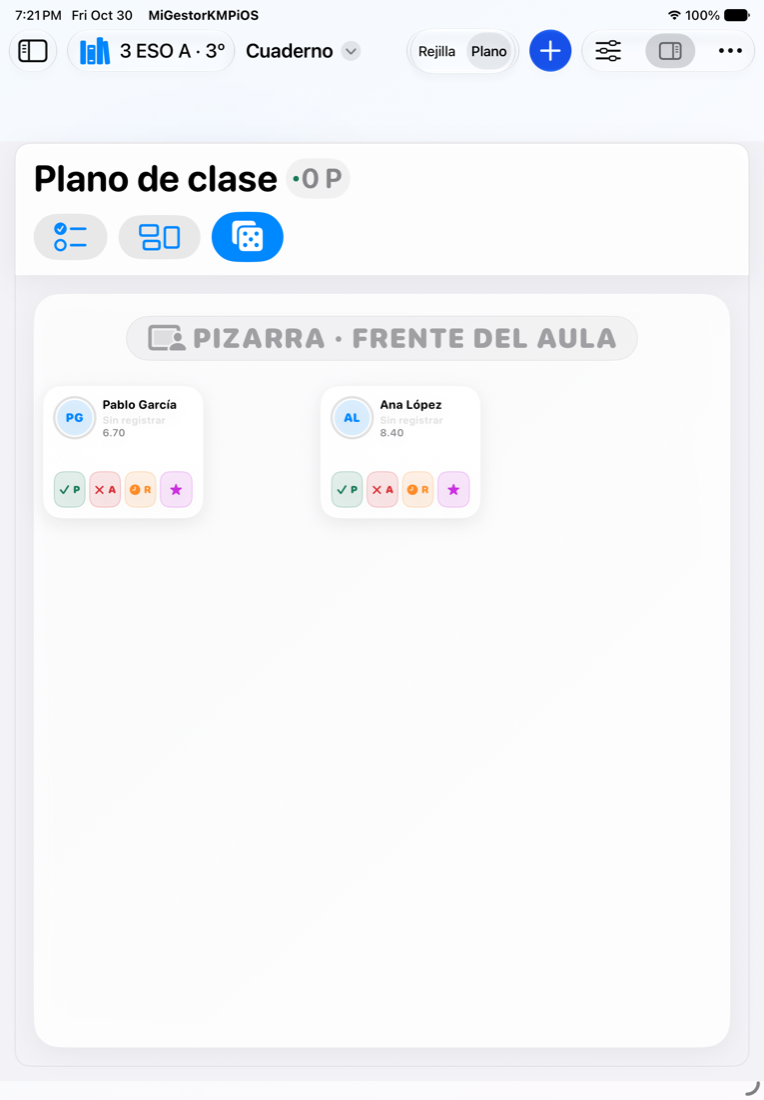
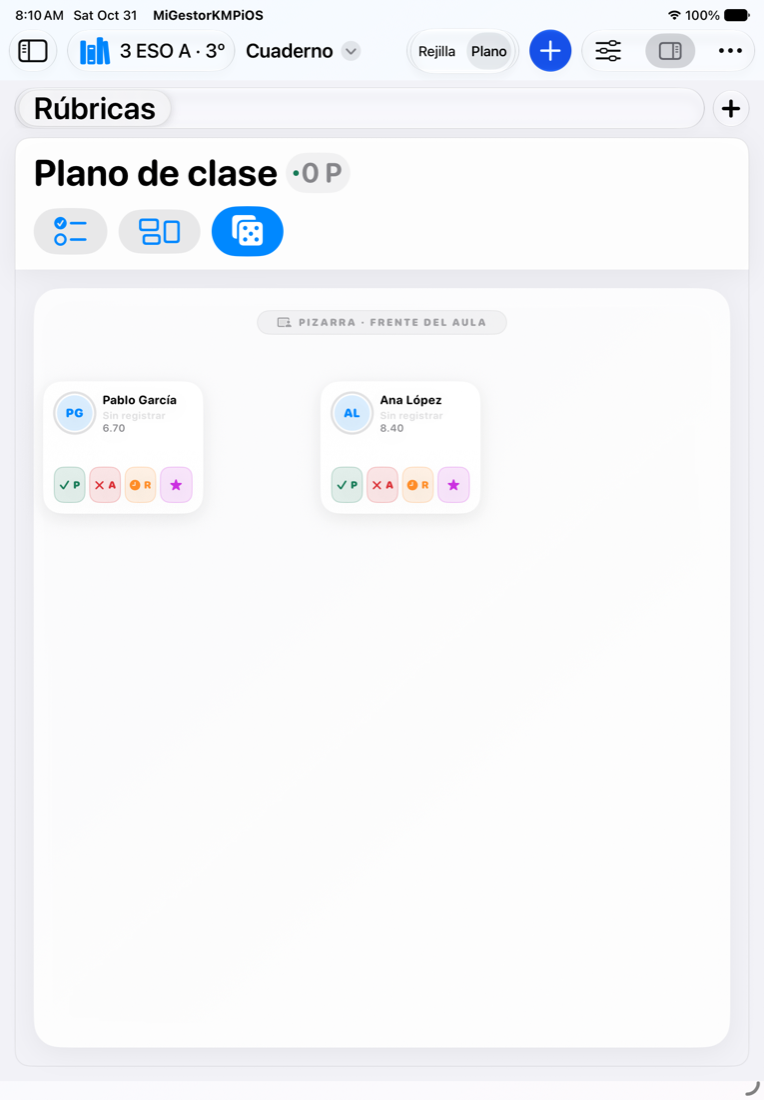
ui(cuaderno): plano y Ficha 360 sin solapes ni palabras partidas en pantallas estrechas
- Plano: la barra pasa a dos filas si no cabe; el lienzo tiene ancho
  mínimo y se desplaza en horizontal; la primera fila de pupitres queda
  bajo la pizarra, que no crece con la letra.
- Ficha 360: cabecera apilada en tamaños de accesibilidad y tarjeta de
  nota que baja la etiqueta antes de partir «/ 10».
- Capturas nuevas del plano en iPad y de plano y Ficha 360 en iPhone.

diff --git a/kmp/iosApp/App/StudentProfile360Sheet.swift b/kmp/iosApp/App/StudentProfile360Sheet.swift
@@ -180,7 +180,12 @@ struct StudentProfile360Sheet: View {
     // MARK: - Header Identity Bar
 
     private var headerIdentityBar: some View {
-        HStack(spacing: 14) {
+        // Con letra de accesibilidad avatar, datos y flechas no caben en una
+        // fila de iPhone ("3 ES O A"): se apilan.
+        let layout = dynamicTypeSize.isAccessibilitySize
+            ? AnyLayout(VStackLayout(alignment: .leading, spacing: 12))
+            : AnyLayout(HStackLayout(spacing: 14))
+        return layout {
             // Avatar con iniciales y anillo de estado
             ZStack {
                 let isInjured = currentStudent?.isInjured ?? false
@@ -205,7 +210,7 @@ struct StudentProfile360Sheet: View {
                     Text(currentStudent?.fullName ?? "Alumno")
                         .font(.title3.weight(.bold))
                         .foregroundStyle(.primary)
-                        .lineLimit(1)
+                        .lineLimit(dynamicTypeSize.isAccessibilitySize ? 2 : 1)
 
                     if currentStudent?.isInjured == true {
                         HStack(spacing: 3) {
@@ -220,14 +225,19 @@ struct StudentProfile360Sheet: View {
                     }
                 }
 
-                HStack(spacing: 8) {
+                let detailLayout = dynamicTypeSize.isAccessibilitySize
+                    ? AnyLayout(VStackLayout(alignment: .leading, spacing: 2))
+                    : AnyLayout(HStackLayout(spacing: 8))
+                detailLayout {
                     Text(profile?.schoolClass?.name ?? "Grupo activo")
                         .font(.subheadline.weight(.medium))
                         .foregroundStyle(.secondary)
 
                     if let index = currentStudentIndex {
-                        Text("•")
-                            .foregroundStyle(.tertiary)
+                        if !dynamicTypeSize.isAccessibilitySize {
+                            Text("•")
+                                .foregroundStyle(.tertiary)
+                        }
                         Text("Alumno \(index + 1) de \(allStudents.count)")
                             .font(.caption.weight(.semibold))
                             .foregroundStyle(.secondary)
@@ -236,8 +246,10 @@ struct StudentProfile360Sheet: View {
                     if let cleanEmail = currentStudent?.email?.trimmingCharacters(in: .whitespacesAndNewlines),
                        !cleanEmail.isEmpty,
                        let emailUrl = URL(string: "mailto:\(cleanEmail)") ?? URL(string: "mailto:\(cleanEmail.addingPercentEncoding(withAllowedCharacters: .urlQueryAllowed) ?? "")") {
-                        Text("•")
-                            .foregroundStyle(.tertiary)
+                        if !dynamicTypeSize.isAccessibilitySize {
+                            Text("•")
+                                .foregroundStyle(.tertiary)
+                        }
                         Link(destination: emailUrl) {
                             HStack(spacing: 3) {
                                 Image(systemName: "envelope.fill")
@@ -249,7 +261,9 @@ struct StudentProfile360Sheet: View {
                 }
             }
 
-            Spacer(minLength: 8)
+            if !dynamicTypeSize.isAccessibilitySize {
+                Spacer(minLength: 8)
+            }
 
             // Controles de Carrusel (‹ Alumno anterior | Alumno siguiente ›)
             HStack(spacing: 8) {
@@ -290,6 +304,7 @@ struct StudentProfile360Sheet: View {
                 .help("Alumno siguiente (⌘→)")
             }
         }
+        .frame(maxWidth: .infinity, alignment: .leading)
     }
 
     private var tabPickerBar: some View {
@@ -343,32 +358,22 @@ struct StudentProfile360Sheet: View {
                         .foregroundStyle(.secondary)
 
                     let score = resolvedAverageScore
-                    HStack(alignment: .lastTextBaseline, spacing: 6) {
-                        Text(IosFormatting.decimal(from: score))
-                            .scaledSystemFont(size: 32, weight: .bold, design: .rounded)
-                            .foregroundStyle(gradeBandColor(for: score))
-                            .lineLimit(1)
-                            .fixedSize()
-
-                        Text("/ 10")
-                            .font(.subheadline)
-                            .foregroundStyle(.secondary)
-
-                        Spacer()
-
-                        Text(lomloeGradeText(for: score))
-                            .font(.caption.weight(.bold))
-                            .lineLimit(1)
-                            .fixedSize()
-                            .padding(.horizontal, 8)
-                            .padding(.vertical, 4)
-                            .background(gradeBandColor(for: score).opacity(0.14))
-                            .foregroundStyle(gradeBandColor(for: score))
-                            .clipShape(Capsule())
+                    // Si la tarjeta es estrecha (iPhone, dos tarjetas en fila) la
+                    // etiqueta baja bajo la nota; antes "/ 10" se partía en vertical.
+                    ViewThatFits(in: .horizontal) {
+                        HStack(alignment: .lastTextBaseline, spacing: 6) {
+                            averageScoreValue(score)
+                            Spacer(minLength: 6)
+                            averageGradeBadge(score)
+                        }
+                        VStack(alignment: .leading, spacing: 4) {
+                            averageScoreValue(score)
+                            averageGradeBadge(score)
+                        }
                     }
                 }
                 .padding(14)
-                .frame(maxWidth: .infinity)
+                .frame(maxWidth: .infinity, alignment: .leading)
                 .background(cardBackground)
                 .clipShape(RoundedRectangle(cornerRadius: 14, style: .continuous))
                 .overlay(RoundedRectangle(cornerRadius: 14, style: .continuous).stroke(NotebookGridStyle.gridLine, lineWidth: 1))
@@ -536,6 +541,31 @@ struct StudentProfile360Sheet: View {
             .clipShape(RoundedRectangle(cornerRadius: 16, style: .continuous))
             .overlay(RoundedRectangle(cornerRadius: 16, style: .continuous).stroke(NotebookGridStyle.gridLine, lineWidth: 1))
         }
+    }
+
+    private func averageScoreValue(_ score: Double) -> some View {
+        HStack(alignment: .lastTextBaseline, spacing: 6) {
+            Text(IosFormatting.decimal(from: score))
+                .scaledSystemFont(size: 32, weight: .bold, design: .rounded)
+                .foregroundStyle(gradeBandColor(for: score))
+            Text("/ 10")
+                .font(.subheadline)
+                .foregroundStyle(.secondary)
+        }
+        .lineLimit(1)
+        .fixedSize()
+    }
+
+    private func averageGradeBadge(_ score: Double) -> some View {
+        Text(lomloeGradeText(for: score))
+            .font(.caption.weight(.bold))
+            .lineLimit(1)
+            .fixedSize()
+            .padding(.horizontal, 8)
+            .padding(.vertical, 4)
+            .background(gradeBandColor(for: score).opacity(0.14))
+            .foregroundStyle(gradeBandColor(for: score))
+            .clipShape(Capsule())
     }
 
     // MARK: - 2. Asistencia & Puntualidad

diff --git a/kmp/iosApp/App/NotebookSeatingPlanView.swift b/kmp/iosApp/App/NotebookSeatingPlanView.swift
@@ -93,7 +93,18 @@ struct NotebookSeatingPlanView: View {
     var body: some View {
         VStack(spacing: 0) {
             toolbar
-            seatingCanvas
+            GeometryReader { proxy in
+                // Las fichas miden 172 pt y van en posiciones relativas: en un
+                // lienzo estrecho (iPhone) se montaban unas sobre otras. El
+                // lienzo nunca baja de lo que necesitan sus columnas y, si no
+                // cabe, se desplaza en horizontal.
+                let width = max(proxy.size.width, minimumCanvasWidth)
+                ScrollView(.horizontal, showsIndicators: width > proxy.size.width) {
+                    seatingCanvas
+                        .frame(width: width, height: proxy.size.height)
+                }
+                .scrollDisabled(width <= proxy.size.width)
+            }
         }
         .appOnChange(of: highlightedStudentId) { _ in
             isBannerDismissed = false
@@ -103,30 +114,39 @@ struct NotebookSeatingPlanView: View {
 
     // MARK: - Toolbar
 
-    /// Con letra de accesibilidad la fila no cabe: el título va arriba y los
-    /// botones debajo, solo con icono (VoiceOver sigue leyendo su texto).
+    /// Si la fila no cabe (iPhone, o letra de accesibilidad) el título va
+    /// arriba y los botones debajo, solo con icono (VoiceOver sigue leyendo su
+    /// texto). Antes, en iPhone, cada botón partía su texto letra a letra.
     private var toolbar: some View {
         Group {
             if dynamicTypeSize.isAccessibilitySize {
-                VStack(alignment: .leading, spacing: 12) {
-                    toolbarTitle
+                stackedToolbar
+            } else {
+                ViewThatFits(in: .horizontal) {
                     HStack(spacing: 12) {
+                        toolbarTitle
+                        Spacer()
                         toolbarActions
                     }
-                    .labelStyle(.iconOnly)
-                }
-                .frame(maxWidth: .infinity, alignment: .leading)
-            } else {
-                HStack(spacing: 12) {
-                    toolbarTitle
-                    Spacer()
-                    toolbarActions
+                    .fixedSize(horizontal: true, vertical: false)
+                    stackedToolbar
                 }
             }
         }
         .padding(.horizontal, 20)
         .padding(.vertical, 14)
         .background(NotebookStyle.surface.opacity(0.92))
+    }
+
+    private var stackedToolbar: some View {
+        VStack(alignment: .leading, spacing: 12) {
+            toolbarTitle
+            HStack(spacing: 12) {
+                toolbarActions
+            }
+            .labelStyle(.iconOnly)
+        }
+        .frame(maxWidth: .infinity, alignment: .leading)
     }
 
     private var toolbarTitle: some View {
@@ -239,6 +259,13 @@ struct NotebookSeatingPlanView: View {
 
     // MARK: - Seating Canvas
 
+    /// Columnas del reparto por defecto (`defaultSeatPositions`): al menos 3.
+    /// Cada ficha necesita su ancho (172) más aire; 120 de márgenes del lienzo.
+    private var minimumCanvasWidth: CGFloat {
+        let columns = max(3, Int(ceil(sqrt(Double(max(rows.count, 1))))))
+        return CGFloat(columns) * 188 + 120
+    }
+
     private var seatingCanvas: some View {
         GeometryReader { proxy in
             ZStack(alignment: .top) {
@@ -279,6 +306,9 @@ struct NotebookSeatingPlanView: View {
                         .stroke(Color.secondary.opacity(0.14), lineWidth: 1)
                 )
                 .padding(.top, 24)
+                // Es parte del lienzo, como las fichas: no crece con la letra
+                // o queda tapada por la primera fila de pupitres.
+                .dynamicTypeSize(...DynamicTypeSize.large)
 
                 // Dragging guide overlay
                 if draggingStudentId != nil {
@@ -327,7 +357,9 @@ struct NotebookSeatingPlanView: View {
                     )
                     .position(
                         x: max(96, min(proxy.size.width - 96, CGFloat(position.x) * proxy.size.width)),
-                        y: max(96, min(proxy.size.height - 96, CGFloat(position.y) * proxy.size.height))
+                        // 132: la primera fila queda bajo la etiqueta de la pizarra
+                        // (24 de margen + ~32 de etiqueta + media ficha de 71).
+                        y: max(132, min(proxy.size.height - 96, CGFloat(position.y) * proxy.size.height))
                     )
                     .zIndex(isDragging ? 2 : (highlightedStudentId == item.student.id ? 1 : 0))
                     #if os(macOS)

diff --git a/docs/CHANGELOG.md b/docs/CHANGELOG.md
@@ -120,7 +120,7 @@ El formato sigue una variante practica de Keep a Changelog:
 
 ### Changed
 
-- **Hoy (Dashboard) y hojas del Cuaderno: letra que crece y bordes del sistema** (rama `codex/ui-legible`; iPad, iPhone y Mac). Cierra las 6 mejoras HIG de la auditoría del Dashboard (2026-10-06): con error de carga el contenido ya no pierde color; en iPhone la cabecera usa un título más pequeño y AHORA entra en la primera pantalla; si el botón principal está apagado, debajo pone «Elige un grupo para empezar.»; el cristal de iOS/macOS anteriores a 26 lleva borde opaco; Atención escribe «Prioridad alta/media» y la alta tiene línea propia con icono; el aviso «Sin conexión» es cabecera y resumen para VoiceOver. Las hojas Estadísticas de columna, Plano de clase, Inspector de alumno, Evaluación masiva de rúbricas, Ficha 360 y el shell de iPad pasan de 158 tamaños de letra fijos a letra que crece con el tamaño de texto del sistema (`.notebookFont` y el nuevo `.scaledSystemFont`), con mínimo 11 pt; los iconos en marcos fijos crecen hasta xxxLarge. Los bordes y rellenos con `.primary.opacity` de `Dashboard*` y de esas hojas pasan a tokens (`DashboardStyle.strongSeparator`, `legacyControlBorder`, `skeletonFill`, `hoverFill`; `NotebookGridStyle.chipFill`, `gridLine`). Las capturas en AX3 sacaron palabras partidas, que también quedan arregladas: el plano de clase pone el título arriba y los botones solo con icono, y sus fichas de pupitre (tamaño fijo) no crecen; las estadísticas de columna pasan las filas de tarjetas y los tramos LOMLOE a columna; el inspector del Cuaderno crece hasta xxxLarge y sus fichas «Entran / Pendientes / Fuera» van en columna si no caben; la Ficha 360 apila sus dos tarjetas de nota; las tarjetas de métricas del shell crecen hasta xxxLarge y encogen el texto antes de cortarlo; en la evaluación masiva de rúbricas el estado («8 pendientes · Cambios guardados») baja bajo el título y el nombre del alumno puede ocupar dos líneas. El aviso del botón apagado ya existía en develop: no se duplica, solo se añade la pista de VoiceOver y la ayuda de Mac. Verificación: `./scripts/verify_apple_builds.sh` (macOS e iOS simulador) OK; capturas de antes y después, en tamaño normal y en AX3, en `docs/imagenes/ui-legible/` (iPhone e iPad en simulador iOS 27; Mac con carpeta de usuario temporal), solo con datos de prueba. No capturado: hojas del Cuaderno en iPhone y en Mac, iOS < 26 real (rama antigua forzada en iOS 27).
+- **Hoy (Dashboard) y hojas del Cuaderno: letra que crece y bordes del sistema** (rama `codex/ui-legible`; iPad, iPhone y Mac). Cierra las 6 mejoras HIG de la auditoría del Dashboard (2026-10-06): con error de carga el contenido ya no pierde color; en iPhone la cabecera usa un título más pequeño y AHORA entra en la primera pantalla; si el botón principal está apagado, debajo pone «Elige un grupo para empezar.»; el cristal de iOS/macOS anteriores a 26 lleva borde opaco; Atención escribe «Prioridad alta/media» y la alta tiene línea propia con icono; el aviso «Sin conexión» es cabecera y resumen para VoiceOver. Las hojas Estadísticas de columna, Plano de clase, Inspector de alumno, Evaluación masiva de rúbricas, Ficha 360 y el shell de iPad pasan de 158 tamaños de letra fijos a letra que crece con el tamaño de texto del sistema (`.notebookFont` y el nuevo `.scaledSystemFont`), con mínimo 11 pt; los iconos en marcos fijos crecen hasta xxxLarge. Los bordes y rellenos con `.primary.opacity` de `Dashboard*` y de esas hojas pasan a tokens (`DashboardStyle.strongSeparator`, `legacyControlBorder`, `skeletonFill`, `hoverFill`; `NotebookGridStyle.chipFill`, `gridLine`). Las capturas en AX3 sacaron palabras partidas, que también quedan arregladas: el plano de clase pone el título arriba y los botones solo con icono, y sus fichas de pupitre (tamaño fijo) no crecen; las estadísticas de columna pasan las filas de tarjetas y los tramos LOMLOE a columna; el inspector del Cuaderno crece hasta xxxLarge y sus fichas «Entran / Pendientes / Fuera» van en columna si no caben; la Ficha 360 apila sus dos tarjetas de nota; las tarjetas de métricas del shell crecen hasta xxxLarge y encogen el texto antes de cortarlo; en la evaluación masiva de rúbricas el estado («8 pendientes · Cambios guardados») baja bajo el título y el nombre del alumno puede ocupar dos líneas. En iPhone, el plano de clase ya no parte el texto de sus botones letra a letra ni monta los pupitres unos sobre otros (el lienzo tiene un ancho mínimo y se desplaza en horizontal; la primera fila queda bajo la pizarra), y la Ficha 360 apila su cabecera en tamaños de accesibilidad y no parte «/ 10». El aviso del botón apagado ya existía en develop: no se duplica, solo se añade la pista de VoiceOver y la ayuda de Mac. Verificación: `./scripts/verify_apple_builds.sh` (macOS e iOS simulador) OK; capturas de antes y después, en tamaño normal y en AX3, en `docs/imagenes/ui-legible/` (iPhone e iPad en simulador iOS 27; Mac con carpeta de usuario temporal), solo con datos de prueba. No capturado: hojas del Cuaderno en iPhone y en Mac, iOS < 26 real (rama antigua forzada en iOS 27).
 - **Mac: «Pruebas físicas» vuelve a la barra lateral** (sección Evaluación, `MacFeatureRegistry`). Se había quitado el 2026-10-08 y solo se llegaba con ⌘4, que sigue funcionando. Se llama «Pruebas físicas» en lugar de «Mediciones y baremos», también en el menú Navegación.
 - **Ajustes › Datos y seguridad: fuera el interruptor «Copia previa al restaurar»**: no tenía efecto; la app siempre guarda una copia antes de restaurar, y así sigue. El pie de «Copias automáticas» explica ahora cuándo se hace la copia. «Diaria (Al cerrar la app)» pasa a «Diaria».
 - **Ajustes › Datos y seguridad y Copias de seguridad, rediseño según HIG**: Ajustes pasa a formulario agrupado con una fila de estado («Tus datos están protegidos · Última copia hace 2 horas») y «Crear copia ahora», secciones «Copias automáticas» e «Historial» con texto de pie, la fila «Copias guardadas» con su número y «Zona de riesgo» separada al final. El centro de copias deja la cabecera grande, los dos botones de crear, la fila de botones que se cortaba y las tres tarjetas de colores: ahora tiene barra de herramientas (Buscar, Importar, Más, Crear copia), un resumen de una línea y una lista nativa agrupada por día. Cada copia muestra hora y nota en vez del nombre de archivo, el contenido en una línea y el tamaño. Solo lleva símbolo si está validada o tiene un problema; «sin validar» ya no parece un aviso. Validar, Exportar y Eliminar pasan al menú «⋯», al clic derecho y a deslizar en iPad; pulsar la copia abre la vista previa de restaurar. Eliminar pide confirmación con la fecha. El estado verde se calcula con la última copia que no esté vacía ni dañada. Etiquetas de VoiceOver por fila, acciones con nombre y texto dinámico.

diff --git a/docs/imagenes/ui-legible/README.md b/docs/imagenes/ui-legible/README.md
@@ -21,6 +21,8 @@ Dispositivos: simulador iOS 27 (iPhone 17 Pro, iPad Air 11" M4) y la app de Mac 
 |---|---|---|
 | Hoy, iPhone | `iphone-hoy-despues.png` | `iphone-hoy-ax3-despues.png` (antes: `iphone-hoy-ax3-antes.png`) |
 | Cuaderno, iPhone | — | `iphone-cuaderno-ax3.png` |
+| Plano de clase, iPhone | `iphone-plano-normal.png` | `iphone-plano-ax3.png` |
+| Ficha 360, iPhone | `iphone-ficha360-normal.png` | `iphone-ficha360-ax3.png` |
 | Hoy, iPad | `ipad-hoy-despues.png` | `ipad-hoy-ax3-despues.png` (antes: `ipad-hoy-ax3-antes.png`) |
 | Plano de clase, iPad | `ipad-plano-normal.png` | `ipad-plano-ax3.png` |
 | Estadísticas de columna, iPad | `ipad-estadisticas-normal.png` | `ipad-estadisticas-ax3.png`, `ipad-estadisticas-tramos-ax3.png` |
@@ -32,6 +34,6 @@ Dispositivos: simulador iOS 27 (iPhone 17 Pro, iPad Air 11" M4) y la app de Mac 
 
 ## Lo que no se pudo capturar
 
-- Hojas del Cuaderno en iPhone: el menú contextual no se abrió con los gestos del simulador.
-- Hojas del Cuaderno en Mac: sin permiso de accesibilidad no se puede navegar la app de Mac desde la terminal.
+- Resto de hojas del Cuaderno en iPhone (estadísticas, inspector, evaluación masiva): se dejó el iPhone a petición del usuario, que no usa la app en iPhone.
+- Hojas del Cuaderno en Mac: la app de Mac aislada arranca en el Cuaderno, pero abrir una clase y sus hojas exige clics, y sin el permiso de Accesibilidad de macOS no se puede desde la terminal.
 - Estados forzados (error, Atención inventada) en Mac: el Mac usa su propia vista de Hoy, sin el parche.

diff --git a/docs/ambitos/cuaderno.md b/docs/ambitos/cuaderno.md
@@ -33,6 +33,7 @@
 - Iconos o iniciales dentro de un `.frame(width:height:)` fijo llevan `.dynamicTypeSize(...DynamicTypeSize.xxxLarge)`: si se quita el tope, en AX3 se salen del marco.
 - Topes de Dynamic Type fuera del grid: la ficha de pupitre del plano (`.frame(width: 172, height: 142)`) no crece (`...large`); el panel del inspector (`NotebookInspectorPanel`) crece hasta `xxxLarge`. Si se quitan, en AX3 se parten palabras ("EN-TRAN", "Sin regis-").
 - Hojas con filas de tarjetas (estadísticas de columna, Ficha 360, plano de clase): con `dynamicTypeSize.isAccessibilitySize` pasan de fila a columna. Toda fila nueva de tarjetas debe hacer lo mismo.
+- Plano de clase: el lienzo nunca baja de `minimumCanvasWidth` (columnas × 188 + 120) y en pantallas estrechas se desplaza en horizontal. Si cambia el ancho de la ficha (172) o el reparto de `defaultSeatPositions`, ajustar ese mínimo. Las fichas no suben de y = 132 para no tapar la pizarra.
 - El grid tiene tope de Dynamic Type en AX2 (`NotebookDynamicType.gridRange`). La altura de fila escala con `notebookRowScale` y lleva el mismo tope a mano (1.95): si cambia uno, cambiar el otro.
 - El deslizamiento de asistencia en la celda Nombre no llega a VoiceOver: sus acciones están duplicadas como `accessibilityAction(named:)`. Toda acción nueva del deslizamiento debe añadirse también ahí.
 - Las cabeceras de columna usan `onTapGesture`; su lectura y su acción de VoiceOver están en `columnHeaderAccessibilityLabel` y en la `accessibilityAction` del mismo bloque.
